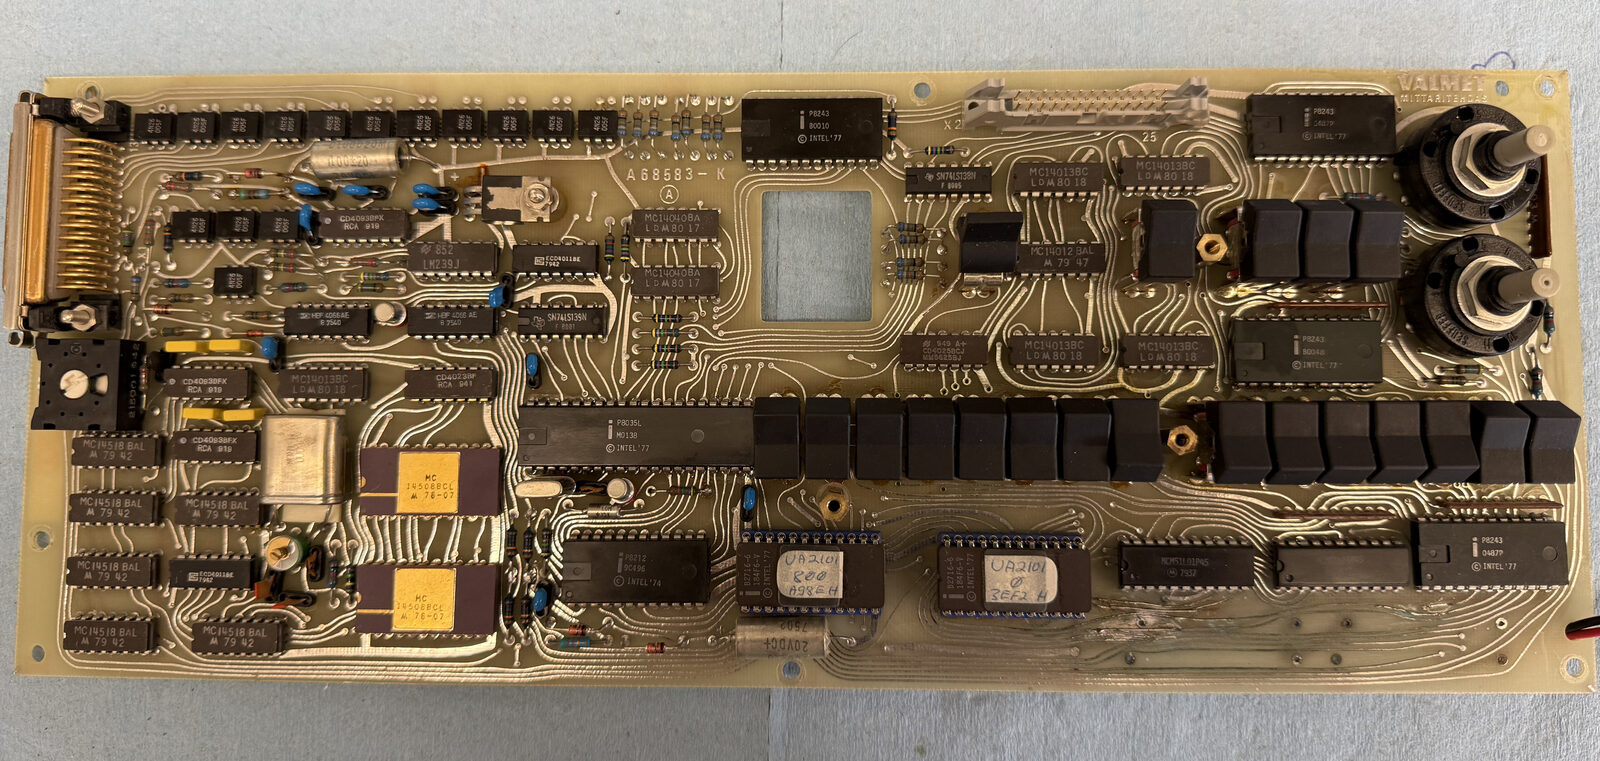
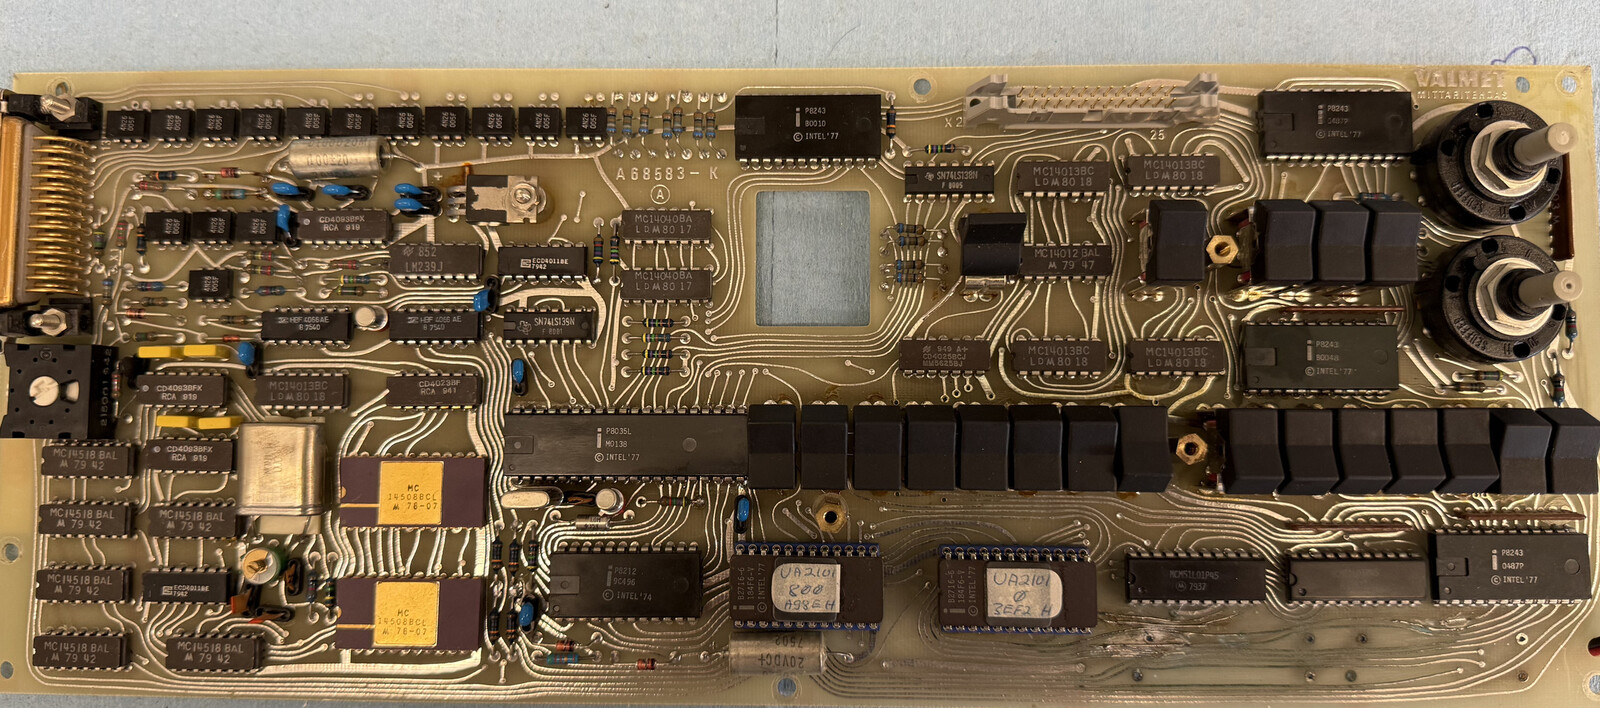
docs: add interactive SVG-layered chip map
Replace the flattened labeled photo's base with an interactive
bottom_pcb_chip_map.html that overlays toggleable SVG layers (opto,
P8243, glue logic, CPU, EPROM) on the component-side photo, so a
category can be isolated while tracing at the board. Re-crop
bottom_pcb_component_side.jpg pixel-aligned to the marker coordinates
(previous crop had a slightly different aspect/offset).

diff --git a/docs/bottom_pcb_chip_map.html b/docs/bottom_pcb_chip_map.html
@@ -1,0 +1,128 @@
+<!doctype html>
+<html lang="en">
+<head>
+<meta charset="utf-8">
+<title>Bottom PCB — chip map (interactive)</title>
+<style>
+  :root { color-scheme: light dark; }
+  body { font-family: system-ui, sans-serif; margin: 0; padding: 1.25rem; background: #111; color: #eee; }
+  h1 { font-size: 1.05rem; margin: 0 0 .3rem; }
+  p.sub { margin: 0 0 1rem; font-size: .85rem; opacity: .8; max-width: 65em; }
+  .controls { display: flex; gap: 1.2rem; margin-bottom: 1rem; font-size: .85rem; flex-wrap: wrap; }
+  .controls label { display: flex; align-items: center; gap: .4em; cursor: pointer; user-select: none; }
+  .controls span.sw { display:inline-block; width:.9em; height:.9em; border-radius:50%; }
+  .wrap { overflow: auto; max-height: 85vh; border: 1px solid #444; border-radius: 6px; background: #000; position: relative; }
+  .wrap svg { display: block; }
+  .wrap img { display: block; width: 100%; height: auto; }
+  .dot { stroke: #000; stroke-width: 2; cursor: default; }
+  .lbl { font-size: 15px; font-weight: 700; fill: #fff; text-anchor: middle; dominant-baseline: central; pointer-events: none; font-family: system-ui, sans-serif; }
+  .layer { transition: opacity .15s; }
+  .layer.hidden { display: none; }
+  .note { margin-top: .8rem; font-size: .8rem; opacity: .7; max-width: 65em; }
+</style>
+</head>
+<body>
+
+<h1>Bottom (CPU) board — interactive chip map</h1>
+<p class="sub">
+  Toggle categories on/off to isolate what you're tracing. Base photo:
+  <code>pic/bottom_pcb_component_side.jpg</code> (pixel-aligned to this
+  overlay — do not swap in a re-cropped version without regenerating the
+  marker coordinates below). Naming convention: <code>&lt;part&gt;-&lt;board&gt;&lt;n&gt;</code>,
+  board <code>B</code> = bottom/CPU board, <code>T</code> = top/front-panel board.
+</p>
+
+<div class="controls" id="controls"></div>
+
+<div class="wrap">
+  <svg id="overlay" viewBox="0 0 1600 708" xmlns="http://www.w3.org/2000/svg" style="position:absolute; top:0; left:0; width:100%; height:auto;">
+    <g class="layer" data-layer="opto">
+      <!-- 4N26-B1..15 -->
+    </g>
+    <g class="layer" data-layer="p8243">
+      <!-- P8243-B1, P8243-B2 -->
+    </g>
+    <g class="layer" data-layer="glue">
+      <!-- CD4093BFX-B1 (C1), MC14013BC-B1 (D1) -->
+    </g>
+    <g class="layer" data-layer="cpu">
+      <!-- P8035L CPU -->
+    </g>
+    <g class="layer" data-layer="eprom">
+      <!-- 2716 EPROMs -->
+    </g>
+  </svg>
+  <img src="../pic/bottom_pcb_component_side.jpg" alt="Bottom PCB component side">
+</div>
+
+<p class="note">
+  Open questions still tracked in <code>db25_replacement.md</code>: <code>P8243-B1</code>'s
+  identity needs re-confirming at the board, and two more <code>P8243</code> packages
+  (near the relay bank and the top-right pots) aren't assigned an index yet.
+</p>
+
+<script>
+const LAYERS = {
+  opto:   { color: '#ff3b30', label: '4N26 optoisolator (1-15)', points: [
+    [121.5,120.6,'1'],[169.1,120.6,'2'],[216.7,120.7,'3'],[264.2,120.6,'4'],
+    [311.9,120.6,'5'],[359.5,120.7,'6'],[407.0,120.7,'7'],[454.7,120.7,'8'],
+    [502.2,120.7,'9'],[549.9,120.6,'10'],[597.4,120.6,'11'],
+    [164.3,227.9,'12'],[205.3,227.8,'13'],[246.4,227.8,'14'],
+    [209.1,284.2,'15'],
+  ]},
+  p8243:  { color: '#0047ff', label: 'P8243 I/O expander (#1, #2)', points: [
+    [808.8,123.7,'P2'],[1331.3,349.7,'P1'],
+  ]},
+  glue:   { color: null, label: 'Glue logic (C1 / D1)', points: [
+    [351.7,220.5,'C1', '#ffa500'],
+    [1172.5,351.7,'D1', '#008080'],
+  ]},
+  cpu:    { color: '#800080', label: 'P8035L CPU', points: [
+    [627.3,438.9,'CPU'],
+  ]},
+  eprom:  { color: '#008000', label: '2716 EPROM (A98EH, 3EF2H)', points: [
+    [805.6,581.7,'A98EH'],[1014.0,581.6,'3EF2H'],
+  ]},
+};
+
+const svgns = 'http://www.w3.org/2000/svg';
+const controls = document.getElementById('controls');
+
+for (const [key, def] of Object.entries(LAYERS)) {
+  const g = document.querySelector(`g[data-layer="${key}"]`);
+  for (const pt of def.points) {
+    const [x, y, label, colorOverride] = pt;
+    const color = colorOverride || def.color;
+    const r = (label.length > 2) ? 22 : 14;
+    const circle = document.createElementNS(svgns, 'circle');
+    circle.setAttribute('cx', x);
+    circle.setAttribute('cy', y);
+    circle.setAttribute('r', r);
+    circle.setAttribute('fill', color);
+    circle.setAttribute('class', 'dot');
+    g.appendChild(circle);
+    const text = document.createElementNS(svgns, 'text');
+    text.setAttribute('x', x);
+    text.setAttribute('y', y);
+    text.setAttribute('class', 'lbl');
+    text.style.fontSize = (label.length > 2 ? 11 : 13) + 'px';
+    text.textContent = label;
+    g.appendChild(text);
+  }
+
+  const swatchColor = def.color || def.points[0][3];
+  const lbl = document.createElement('label');
+  lbl.innerHTML = `<input type="checkbox" checked data-layer="${key}"><span class="sw" style="background:${swatchColor}"></span>${def.label}`;
+  controls.appendChild(lbl);
+}
+
+controls.addEventListener('change', (e) => {
+  const cb = e.target;
+  if (cb.dataset.layer) {
+    document.querySelector(`g[data-layer="${cb.dataset.layer}"]`).classList.toggle('hidden', !cb.checked);
+  }
+});
+</script>
+
+</body>
+</html>

diff --git a/docs/db25_replacement.md b/docs/db25_replacement.md
@@ -500,6 +500,16 @@ board with real-time corrections; still open: two more `P8243` packages
 visible near the relay bank and near the top-right pots, not yet assigned
 `#3`/`#4`.
 
+### `docs/bottom_pcb_chip_map.html` — interactive chip map
+
+Same markers as the static labeled photo above, but as toggleable SVG
+layers over `pic/bottom_pcb_component_side.jpg` (checkboxes per category:
+optos, `P8243`s, glue logic, CPU, EPROMs) so a category can be isolated
+while tracing. Open the file directly in a browser — it loads the photo
+via a relative path, so keep it next to `pic/`. If `bottom_pcb_component_side.jpg`
+is ever re-cropped, the marker coordinates in the `<script>` block need
+regenerating to match (they're pixel coordinates against that exact image).
+
 ### `pic/bottom_pcb.jpg` — CPU board, solder/component side
 Visible: the **DB25 D-sub on the left edge**, the two EPROMs (centre, ceramic
 windowed), the 40-pin 8035, several DIP logic ICs, a bank of relays/optos on the